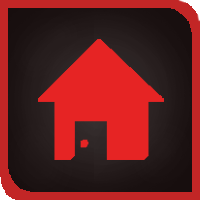
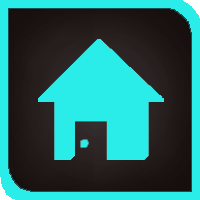
feat: backround in menu and buttons color change

diff --git a/src/rendering/window_rendering.c b/src/rendering/window_rendering.c
@@ -124,8 +124,28 @@ void render_window(win_t *window, world_t *world)
 
     full_screen(world, window);
     sfRenderWindow_clear(window->window, sfBlack);
-    if (world->is_paused == false || world->ui_id != UI_NONE)
+    if (world->is_paused == false || world->ui_id != UI_NONE) {
+        sfRenderWindow_setView(window->window, sfRenderWindow_getDefaultView(window->window));
+        sfText *title = sfText_create();
+        sfText_setString(title, "Lost Memories");
+        sfFont *font = sfFont_createFromFile("fonts/karma-future.ttf");
+        sfText_setFont(title, font);
+        sfText_setCharacterSize(title, 100);
+        sfFloatRect title_bounds = sfText_getGlobalBounds(title);
+        sfText_setOrigin(title, (sfVector2f){title_bounds.width / 2, title_bounds.height / 2});
+        sfText_setPosition(title, (sfVector2f){1920 / 2.0, 300});
+        sfSprite *sprite = sfSprite_create();
+        sfSprite_setScale(sprite, (sfVector2f){0.833, 0.833});
+        sfTexture *texture = sfTexture_createFromFile("effect/background.png", NULL);
+        sfSprite_setTexture(sprite, texture, sfFalse);
+        sfRenderWindow_drawSprite(window->window, sprite, NULL);
+        sfRenderWindow_drawText(window->window, title, NULL);
+        sfSprite_destroy(sprite);
+        sfTexture_destroy(texture);
+        sfText_destroy(title);
+        sfFont_destroy(font);
         return;
+    }
     resize_cam(window, world->map_list[world->map_id], world);
     move_cam(window, world->map_list[world->map_id]);
     move_to_destination(window);
